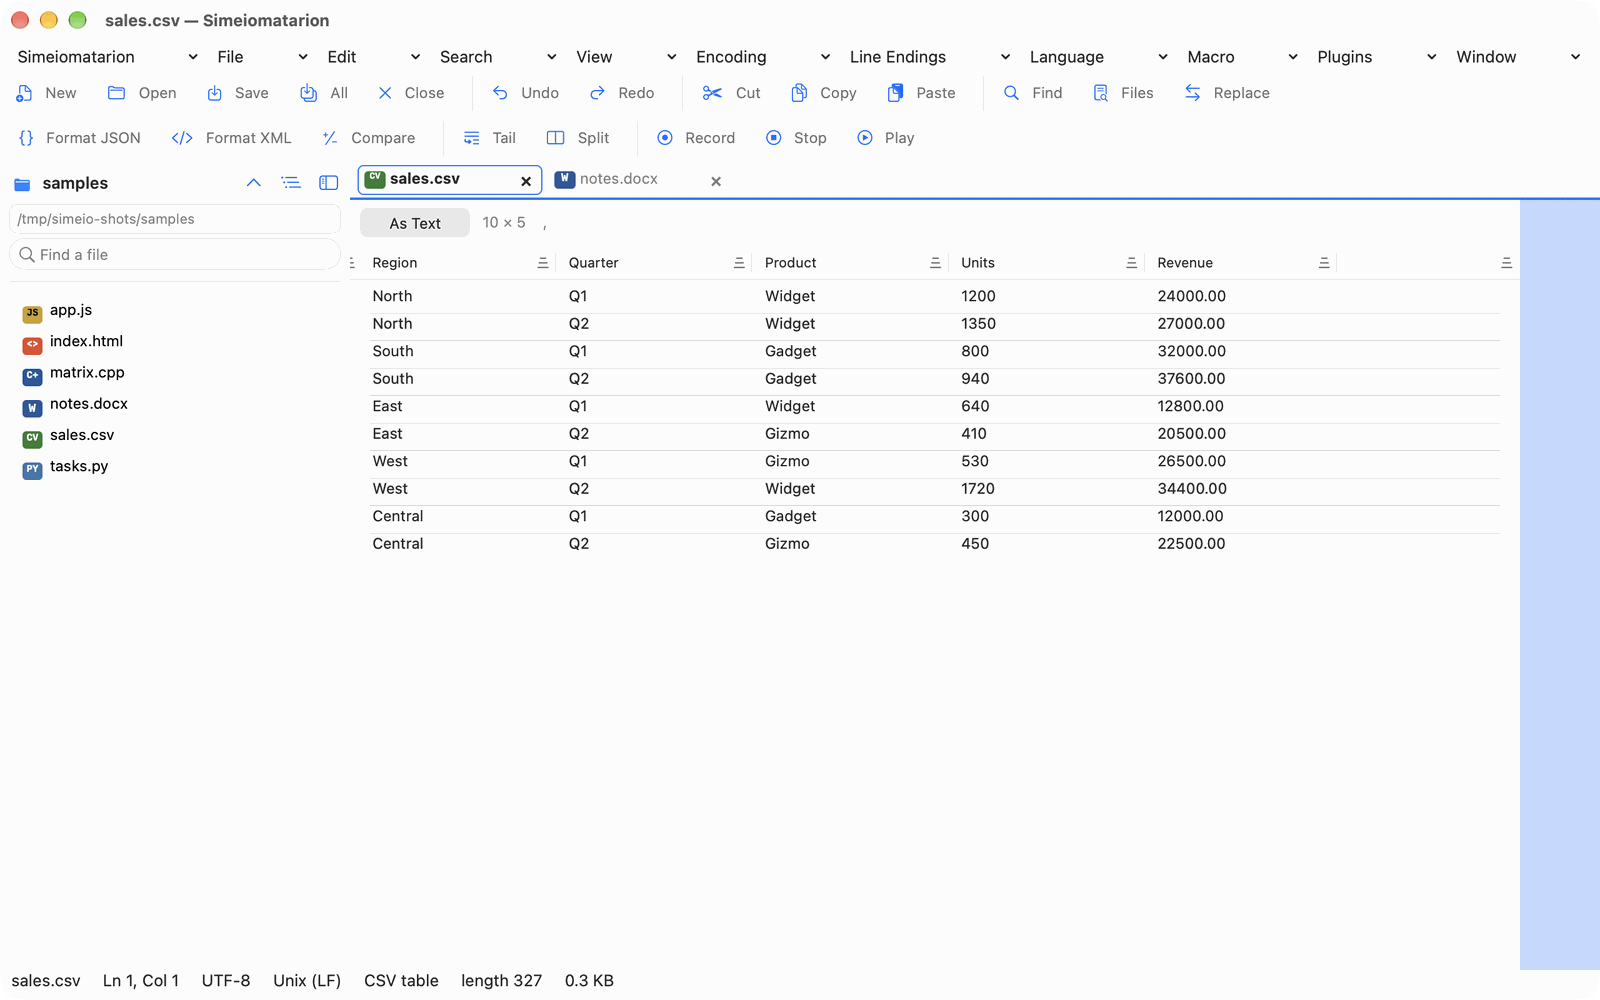
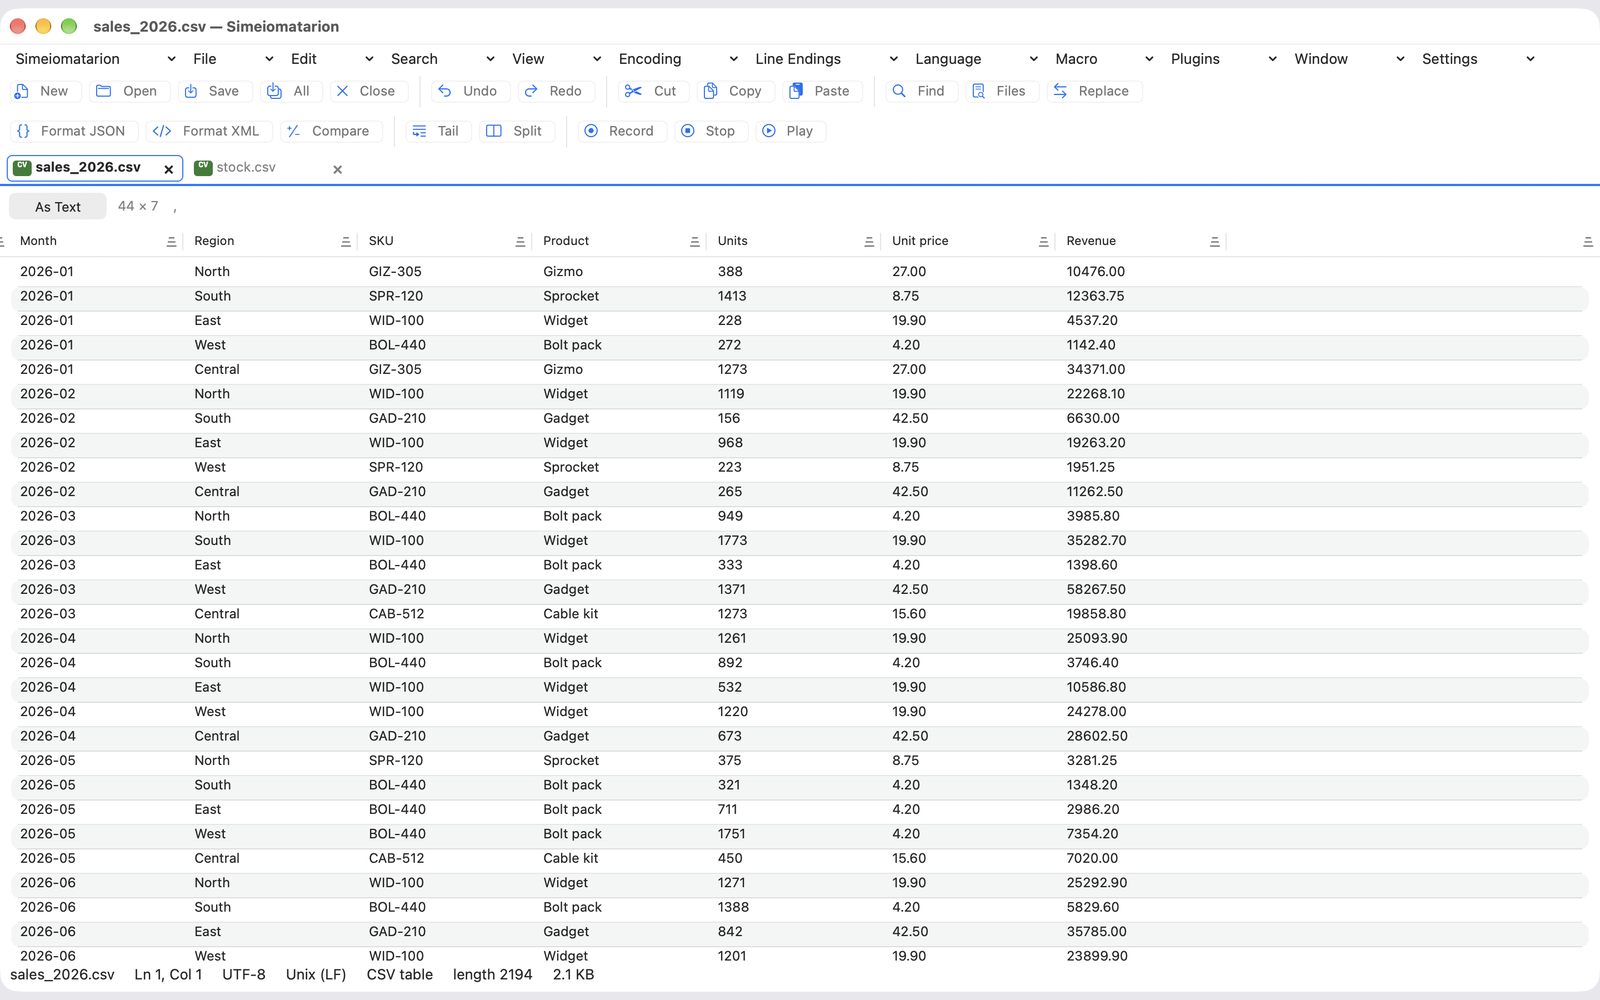
README: replace screenshots with native Retina captures
Editor, split view and CSV table captured from the App Store build, scaled
to 1600x1000 in full colour. Adds a screenshot of the Greek interface.

diff --git a/README.md b/README.md
@@ -2,14 +2,16 @@
 
 Simeiomatarion is a native text and code editor for Apple Silicon Macs: tabs, side-by-side panes, syntax highlighting for dozens of languages, regular-expression search, and table and document views for CSV, PDF and Word files.
 
-![Simeiomatarion editing a C++ file with syntax highlighting, code folding, tabs and the folder sidebar](docs/screenshots/editor.png)
+![Simeiomatarion editing a Python file with syntax highlighting, code folding, tabs, the folder sidebar and the minimap](docs/screenshots/editor.png)
 
 ## Screenshots
 
 | | |
 | --- | --- |
-| ![Two panes side by side, a Python file on the left and a JavaScript file on the right, each with its own tabs](docs/screenshots/split-view.png) | ![A CSV file shown as a table with column headers](docs/screenshots/csv-table.png) |
-| Two panes side by side, each with its own tabs | A CSV file opened as a table |
+| ![Two panes side by side, a Python file on the left and a Go file on the right, each with its own tabs](docs/screenshots/split-view.png) | ![A CSV file shown as an editable table with column headers](docs/screenshots/csv-table.png) |
+| Two panes side by side, each with its own tabs | A CSV file opened as an editable table |
+| ![The editor with its menus and toolbar in Greek, showing a Markdown file](docs/screenshots/greek-ui.png) | |
+| The interface in Greek | |
 
 ## Build
 
